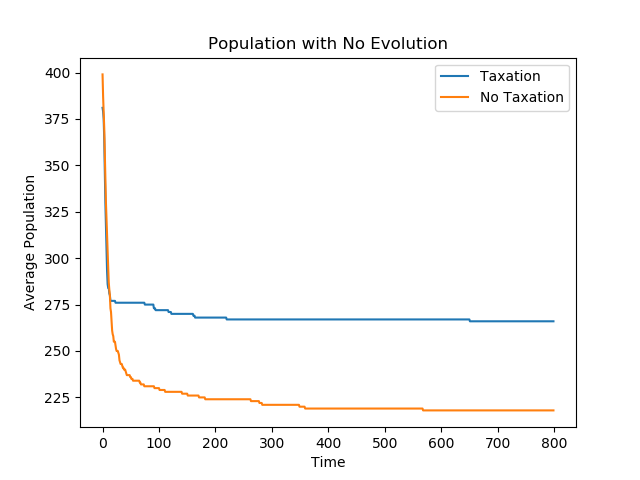
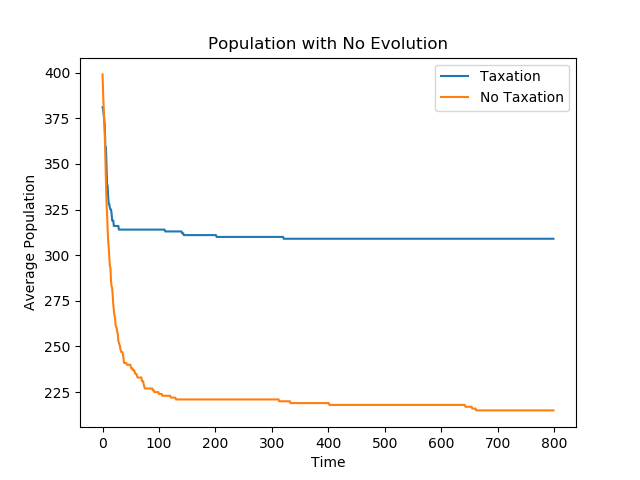
finishing up my sections for final report

diff --git a/code/sugar_scape.py b/code/sugar_scape.py
@@ -234,8 +234,8 @@ class Sugarscape(Cell2D):
 	def get_welfare_brackets(self):
 		bracket_width = self.curr_mean_wealth / 3
 		bracket1 = sum([1 for agent in self.agents if agent.sugar<=self.curr_mean_wealth-bracket_width])
-		bracket2 = sum([1 for agent in self.agents if agent.sugar<=self.curr_mean_wealth])
-		bracket3 = sum([1 for agent in self.agents if agent.sugar<=self.curr_mean_wealth+bracket_width])
+		bracket2 = sum([1 for agent in self.agents if agent.sugar<=self.curr_mean_wealth and agent.sugar>self.curr_mean_wealth-bracket_width])
+		bracket3 = sum([1 for agent in self.agents if agent.sugar<=self.curr_mean_wealth+bracket_width and agent.sugar>self.curr_mean_wealth])
 		if bracket1 == 0:
 			self.bracket1_welfare = 0
 		else:
@@ -435,11 +435,11 @@ class Sugarscape(Cell2D):
 
 
 if __name__ == '__main__':
-	env = Sugarscape(50, True, False, False, num_agents=400)
+	env = Sugarscape(50, True, False, True, num_agents=400)
 	for i in range(800):
 		env.step()
 	env.plot_populations("Taxation")
-	env = Sugarscape(50, False, False, False, num_agents=400)
+	env = Sugarscape(50, False, False, True, num_agents=400)
 	for i in range(800):
 		env.step()
 	env.plot_populations("No Taxation")

diff --git a/reports/draft_final_report.md b/reports/draft_final_report.md
@@ -65,7 +65,7 @@ To implement sex and evolution in our model, we change the values of some charac
 | Maximum begin child bearing age | 15 | Minimum end child bearing age female | 40 |
 | Maximum end child bearing age male | 50 |
 
-We add reproduction to the model. After an agent moves, it finds all of it's neighbors that are able to mate, mates with them, and produce a new agent (b_agent). 
+We add reproduction to the model. After an agent moves, it finds all of it's neighbors that are able to mate, mates with them, and produce a new agent (b_agent).
 
 An agent is able to mate if it meets these requirements:
 - It is of child bearing age
@@ -84,15 +84,15 @@ For our extension, one thing we decided to explore was adding different welfare 
 
 <img width="280" src="https://raw.githubusercontent.com/ComplexityVE/SugarEvax/master/images/wealth_redistribution.png">
 
-Next we made our welfare redistribution system slightly more complex by creating 3 different brackets instead of simply dividing the welfare amongst the agents who had less than the mean amount of sugar. We created the brackets by dividing the mean wealth by 3 and adding that number to the mean wealth to get the upper limit of the third bracket and subtracting that number from the mean wealth to get the upper limit of the first bracket. We then gave agents who fell into the first bracket 50% of the welfare to divide evenly amongst themselves. Similarly we gave agents who fell into the second bracket 30% of the welfare to divide evenly amongst themselves and agents who fell into the third bracket the remaining 20% of the welfare to divide evenly amongst themselves. Agents with more sugar than the upper limit of the third bracket did not get any welfare. With this system in place, we ran our model with taxation and no evolution and got the following graph. It turned out that even with our complex welfare system, the average population dipped to about 275 agents as compared to when it had only dipped to 310 when we were splitting the welfare equally among all the agents.
+Next we made our welfare redistribution system slightly more complex by creating 3 different brackets instead of simply dividing the welfare amongst the agents who had less than the mean amount of sugar. We created the brackets by dividing the mean wealth by 3 and adding that number to the mean wealth to get the upper limit of the third bracket and subtracting that number from the mean wealth to get the upper limit of the first bracket. We then gave agents who fell into the first bracket 50% of the welfare to divide evenly amongst themselves. Similarly we gave agents who fell into the second bracket 30% of the welfare to divide evenly amongst themselves and agents who fell into the third bracket the remaining 20% of the welfare to divide evenly amongst themselves. Agents with more sugar than the upper limit of the third bracket did not get any welfare. With this system in place, we ran our model with taxation and no evolution and got the following graph. With our complex system the average population still steadied out at about 310 agents or maybe a bit higher than that.
 
 <img width="280" src="https://raw.githubusercontent.com/ComplexityVE/SugarEvax/master/images/noevol_withredist.png">
 
-We ran the same model with both taxation and evolution implemented and got the following graph. Although the average population of agents does spike up to be much higher at some points with this bracketed wealth redistribution system it appears that the average population still oscillates around 1400 (or maybe even a little less), the same number of agents that was produced with the taxation and evolution systems in place and a welfare system where welfare was split up equally between all agents.
+We ran the same model with both taxation and evolution implemented and got the following graph. With this system in place, the average population spikes up to be be as much as 1800 agents at some times. That said, the average seems to oscillate around about 1500 agents, about 100 agents higher than the average was when welfare was split up equally between all agents.
 
 <img width="280" src="https://raw.githubusercontent.com/ComplexityVE/SugarEvax/master/images/wealth_redistribution_3brackets_labels.png">
 
-We suspect that the reason that our bracketed welfare redistribution system did not improve the survival rate (measured by average population over time) was because we were already taking more from the agents with more sugar in our bracketed taxation system. Taking more and giving less most likely meant that the agents with a medium amount of sugar were not able to survive in our model. This explains the oscillation we are seeing in our graphs and why the welfare redistribution did not work as well as we might have liked.
+We suspect that the reason that our bracketed welfare redistribution system did not improve the survival rate by much (measured by average population over time) was because we were already taking more from the agents with more sugar in our bracketed taxation system. Taking more and giving less most likely meant that the agents with a medium amount of sugar were not able to survive in our model. This explains the oscillation we are seeing in our graphs and why the welfare redistribution did not have as much of an effect as we might have liked.
 
 ## Bibliography
 1. sldkjflskdjfs
